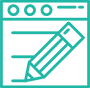
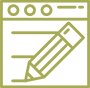
Theming

diff --git a/src/layouts/index.scss b/src/layouts/index.scss
@@ -70,6 +70,7 @@ h1,h2,h3,h4,h5,h6{
 }
 .banner{
   position: relative;
+  background-color: #4f5c5e;
 }
 .bannerContent{
   /* position: relative; */
@@ -124,7 +125,7 @@ h1,h2,h3,h4,h5,h6{
 }
 .section .section-title h1:after{
   width: 50px;
-  background-color: #9eb3b8;
+  background-color: #a6aa54;
   height: 2px;
   bottom: -7px;
   content:"";
@@ -211,7 +212,7 @@ h1,h2,h3,h4,h5,h6{
         span{
           display: block;
           margin-top: 14px;
-          color: #ccc;
+          color: #a6aa54;
         }
         em{
           color:#fff;

diff --git a/src/partials/banner.js b/src/partials/banner.js
@@ -16,7 +16,6 @@ const BannerSection = props => {
       <Flex className="banner" style={{
         height: '400px',
         position: 'relative',
-        backgroundColor:'#6da4a9',
         // backgroundImage:'url('+`${BackgroundUIImage}`+')',
         backgroundPosition: 'top center',
         padding: '100px'
